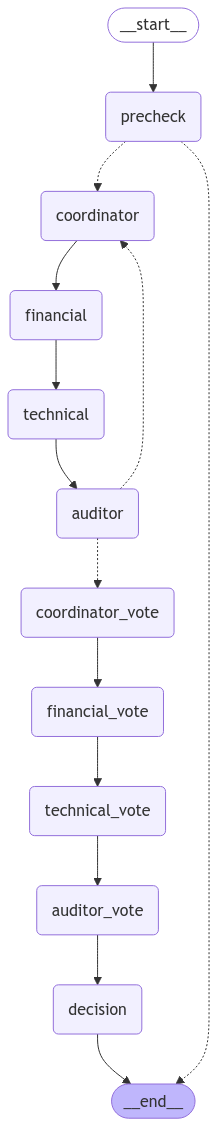
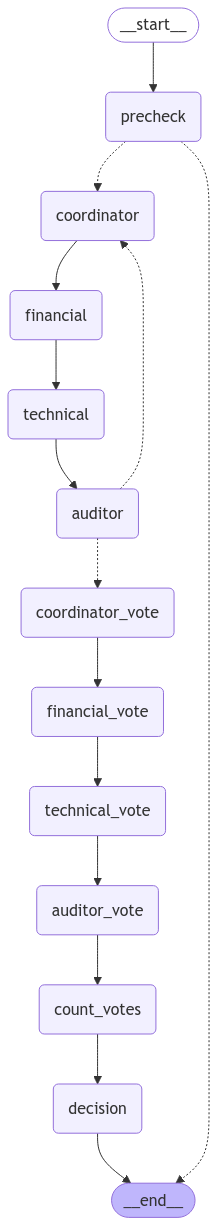
Remove the weight parameter since all votes are now equally important Add a VoteCounter class to count votes without using LLM Modify the Chief Auditor's role to only have veto power, with the final decision based on majority voting unless vetoed Update the workflow to include vote counting before t

diff --git a/agent/main.py b/agent/main.py
@@ -14,11 +14,13 @@ from typing_extensions import TypedDict
 
 load_dotenv()
 
+
 # Data Models
 class VoteDecision(str, Enum):
     APPROVE = "APPROVE"
     REJECT = "REJECT"
     ABSTAIN = "ABSTAIN"
+
 
 class ValidationResult(str, Enum):
     PASS = "PASS"
@@ -42,7 +44,7 @@ class Proposal:
             "title": self.title,
             "description": self.description,
             "amount": self.amount,
-            "additional_context": self.additional_context
+            "additional_context": self.additional_context,
         }
 
 
@@ -56,6 +58,7 @@ class AgentState(TypedDict):
     validation_results: Dict[str, Dict[str, Any]]
     max_rounds: int
     final_decision: FinalDecision
+    vote_counts: Dict[str, int]
 
 
 # Add these new models near the top with other data models
@@ -74,9 +77,9 @@ class PrecheckResult(BaseModel):
 
 # Agent Definitions
 class BaseAgent:
-    def __init__(self, role: str, weight: float, description: str):
+
+    def __init__(self, role: str, description: str):
         self.role = role
-        self.weight = weight
         self.description = description
         self.llm = ChatOpenAI(
             model=os.getenv("MODEL"),
@@ -165,7 +168,7 @@ Cast your vote as APPROVE, REJECT, or ABSTAIN with a brief explanation.""",
 
         messages = prompt.format_messages(
             discussion_history="\n".join(state["discussion_history"]),
-            proposal=json.dumps(state["proposal"], indent=2)
+            proposal=json.dumps(state["proposal"], indent=2),
         )
 
         response = self.llm.with_structured_output(VoteResult).invoke(messages)
@@ -173,38 +176,50 @@ Cast your vote as APPROVE, REJECT, or ABSTAIN with a brief explanation.""",
 
         return state
 
+
 class ProposalCoordinator(BaseAgent):
     def __init__(self):
         super().__init__(
             role="Proposal Coordinator",
-            weight=0.15,
-            description="Responsible for proposal routing, prioritization, and ensuring proper format and completeness."
+            description="Responsible for proposal routing, prioritization, and ensuring proper format and completeness.",
         )
+
 
 class ChiefAuditor(BaseAgent):
     def __init__(self):
         super().__init__(
             role="Chief Auditor",
-            weight=0.20,
-            description="Final approval/veto authority, responsible for overall compliance and risk assessment."
+            description="Final veto authority, responsible for overall compliance and risk assessment.",
         )
 
     def make_final_decision(self, state: AgentState) -> AgentState:
         prompt = ChatPromptTemplate.from_messages(
             [
-                ("system", "You are the Chief Auditor with final veto power."),
+                (
+                    "system",
+                    """You are the Chief Auditor with veto power. You can only REJECT a proposal 
+            if you find serious compliance or risk issues. You CANNOT approve a proposal directly - 
+            the proposal's approval depends on the majority vote from all committee members.""",
+                ),
                 (
                     "human",
-                    """Review all discussions and votes to make the final decision.
-
+                    """Review all discussions and determine if you need to exercise your veto power.
+                
 Full discussion history:
 {discussion_history}
 
 Votes from committee members:
 {votes}
 
+Vote counts:
+Approve: {approve_count}
+Reject: {reject_count}
+
 Proposal:
 {proposal}
+
+If you find any serious compliance or risk issues, exercise your veto power by responding with REJECT.
+Otherwise, respect the majority vote decision.
 """,
                 ),
             ]
@@ -213,36 +228,54 @@ Proposal:
         messages = prompt.format_messages(
             discussion_history="\n".join(state["discussion_history"]),
             votes=json.dumps(state["votes"], indent=2),
-            proposal=json.dumps(state["proposal"], indent=2)
+            approve_count=state["vote_counts"]["approve"],
+            reject_count=state["vote_counts"]["reject"],
+            proposal=json.dumps(state["proposal"], indent=2),
         )
 
-        response = self.llm.with_structured_output(FinalDecision).invoke(messages)
-        state["final_decision"] = response
+        auditor_decision = self.llm.with_structured_output(FinalDecision).invoke(
+            messages
+        )
+
+        # If auditor doesn't veto (REJECT), use majority vote decision
+        if auditor_decision.decision != "REJECT":
+            majority_decision = (
+                "APPROVE"
+                if state["vote_counts"]["approve"] > state["vote_counts"]["reject"]
+                else "REJECT"
+            )
+            justification = f"Based on majority vote (Approve: {state['vote_counts']['approve']}, Reject: {state['vote_counts']['reject']})"
+            state["final_decision"] = FinalDecision(
+                decision=majority_decision, justification=justification
+            )
+        else:
+            # If auditor vetoes, use their decision and justification
+            state["final_decision"] = auditor_decision
 
         return state
+
 
 class FinancialController(BaseAgent):
     def __init__(self):
         super().__init__(
             role="Financial Controller",
-            weight=0.12,
-            description="Responsible for budget enforcement and financial risk assessment."
+            description="Responsible for budget enforcement and financial risk assessment.",
         )
+
 
 class TechnicalAdvisor(BaseAgent):
     def __init__(self):
         super().__init__(
             role="Technical Advisor",
-            weight=0.08,
-            description="Responsible for technical risk assessment and implementation feasibility."
+            description="Responsible for technical risk assessment and implementation feasibility.",
         )
+
 
 class ProposalChecker(BaseAgent):
     def __init__(self):
         super().__init__(
             role="Proposal Checker",
-            weight=0.0,  # No voting weight as this is a validation agent
-            description="Responsible for initial proposal validation and quick risk assessment."
+            description="Responsible for initial proposal validation and quick risk assessment.",
         )
 
     def precheck(self, state: AgentState) -> AgentState:
@@ -276,13 +309,25 @@ Provide your assessment including status (PASS/FAIL), risk level (LOW/MEDIUM/HIG
         return state
 
 
-def create_aiac_graph(max_rounds: int = 3):
+class VoteCounter:
+    def count_votes(self, state: AgentState) -> AgentState:
+        approve_count = sum(1 for vote in state["votes"].values() if vote == "APPROVE")
+        reject_count = sum(1 for vote in state["votes"].values() if vote == "REJECT")
+
+        # Store vote counts in state
+        state["vote_counts"] = {"approve": approve_count, "reject": reject_count}
+
+        return state
+
+
+def create_aiac_graph():
     # Initialize agents
     checker = ProposalChecker()
     coordinator = ProposalCoordinator()
     auditor = ChiefAuditor()
     financial = FinancialController()
     technical = TechnicalAdvisor()
+    vote_counter = VoteCounter()
 
     # Create workflow graph
     workflow = StateGraph(AgentState)
@@ -301,6 +346,8 @@ def create_aiac_graph(max_rounds: int = 3):
     workflow.add_node("auditor_vote", auditor.vote)
     # 4. final decision
     workflow.add_node("decision", auditor.make_final_decision)
+    # 5. vote counting
+    workflow.add_node("count_votes", vote_counter.count_votes)
 
     # Set entry point
     workflow.set_entry_point("precheck")
@@ -316,7 +363,7 @@ def create_aiac_graph(max_rounds: int = 3):
             .get("proceed_to_review", False)
             else END
         ),
-        ["coordinator", END]
+        ["coordinator", END],
     )
 
     # Discussion phase
@@ -339,7 +386,8 @@ def create_aiac_graph(max_rounds: int = 3):
     workflow.add_edge("coordinator_vote", "financial_vote")
     workflow.add_edge("financial_vote", "technical_vote")
     workflow.add_edge("technical_vote", "auditor_vote")
-    workflow.add_edge("auditor_vote", "decision")
+    workflow.add_edge("auditor_vote", "count_votes")
+    workflow.add_edge("count_votes", "decision")
 
     # Final decision to end
     workflow.add_edge("decision", END)
@@ -351,7 +399,7 @@ class AIAgentCommitee:
 
     def __init__(self, max_rounds: int = 3):
         self.max_rounds = max_rounds
-        self.graph = create_aiac_graph(max_rounds)
+        self.graph = create_aiac_graph()
 
     def save_graph_image(self):
         graph_image = Image(self.graph.get_graph().draw_mermaid_png())
@@ -371,6 +419,7 @@ class AIAgentCommitee:
             final_decision=FinalDecision(
                 decision="REJECT", justification="internal error"
             ),
+            vote_counts={"approve": 0, "reject": 0},
         )
 
         last_state = None
